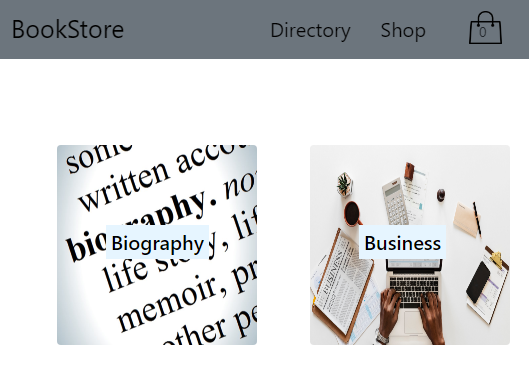
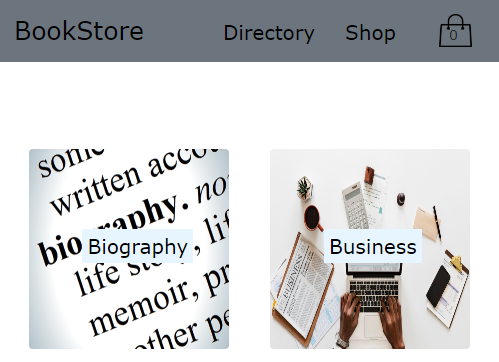
made navbar disappear entirely when scrolling down, made the gap between projects bigger for small screens, uploaded a better thumbnail for bookstore project

diff --git a/portfolio/js/navbar.js b/portfolio/js/navbar.js
@@ -4,7 +4,7 @@ var currentScrollPos = window.pageYOffset;
   if (prevScrollpos > currentScrollPos) {
     document.getElementById("navbar").style.top = "0";
   } else {
-    document.getElementById("navbar").style.top = "-50px";
+    document.getElementById("navbar").style.top = "-65px";
   }
   prevScrollpos = currentScrollPos;
 }

diff --git a/portfolio/styles/style.css b/portfolio/styles/style.css
@@ -280,6 +280,7 @@ body {
 @media (min-width: 200px) and (max-width: 849px) {
   .grid-container-projects {
     grid-template-columns: repeat(1, 1fr);
+    grid-gap: 20px;
   }
   .grid-item-project {
     margin-left: auto;
